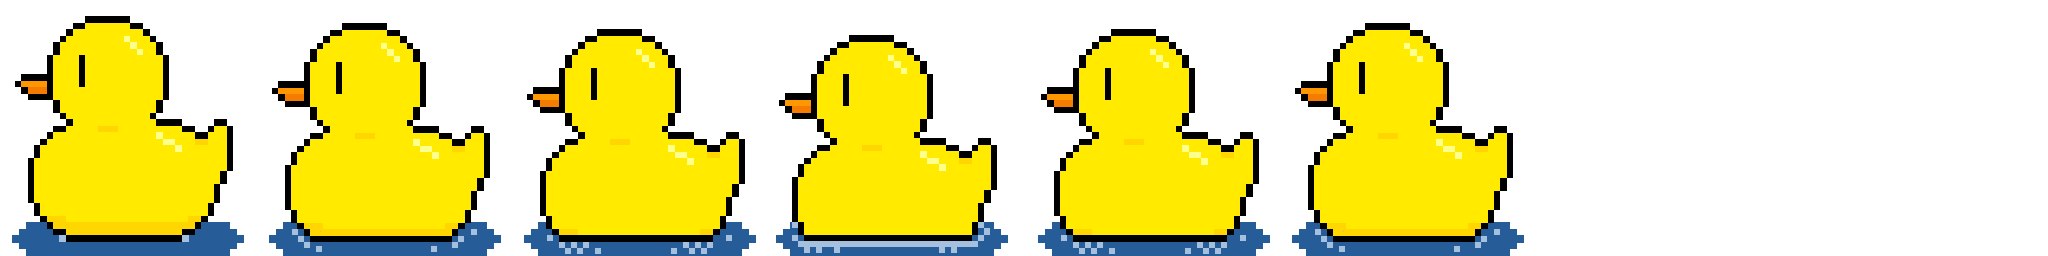
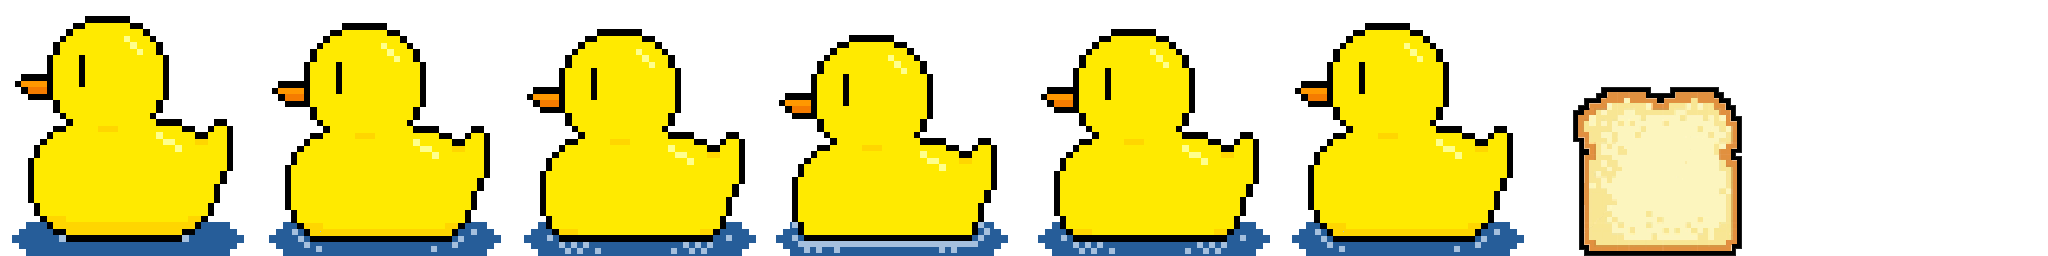
Fixed main sprite sheet

Changed region(s): [[0.75, 0.3438, 0.875, 1.0]]

diff --git a/GameEngine/public/src/MyGame/MyGame.js b/GameEngine/public/src/MyGame/MyGame.js
@@ -97,8 +97,8 @@ MyGame.prototype.initialize = function () {
     this.mTarget.setColor([1, 1, 1, 0]);
     this.mTarget.getXform().setPosition(25, 65);
     // 20 60
-    this.mTarget.getXform().setSize(1.5, 1.5);
-    this.mTarget.setElementPixelPositions(0, 256, 0, 256);
+    this.mTarget.getXform().setSize(3, 3);
+    this.mTarget.setElementPixelPositions(1536, 1792, 0, 256);
 };
 
 // This is the draw function, make sure to setup proper drawing environment, and more
